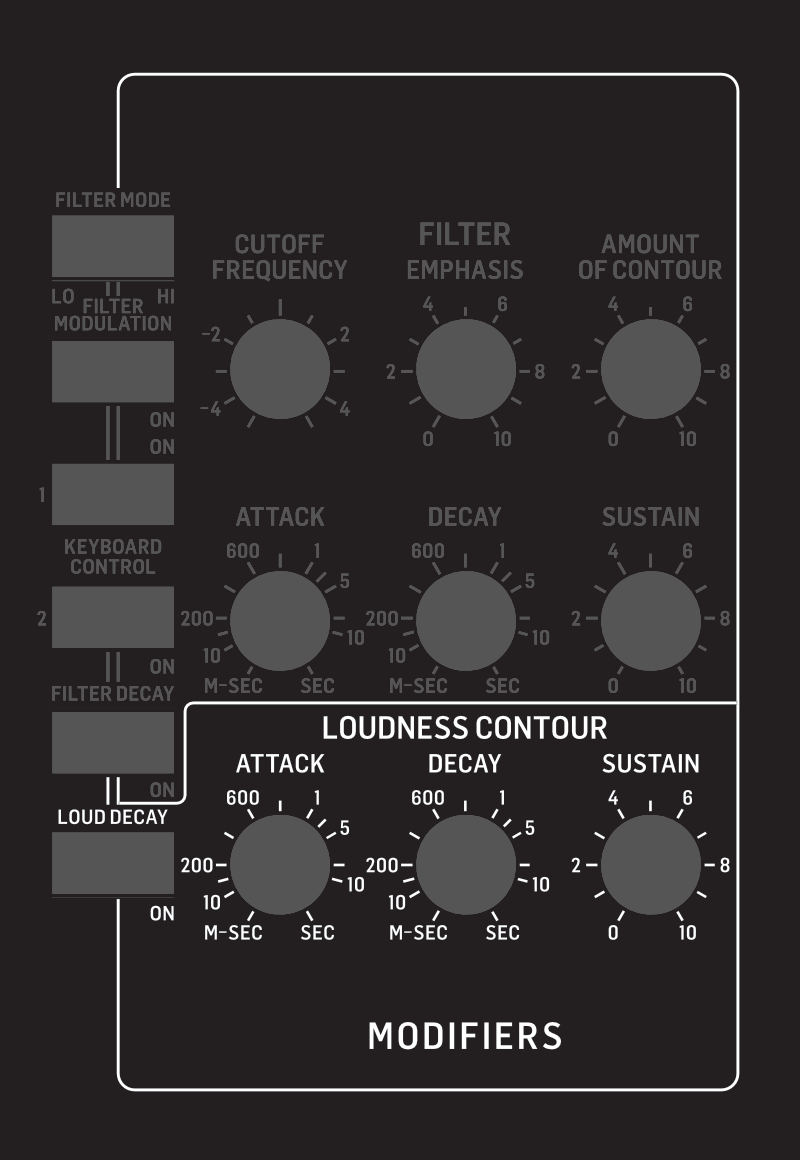
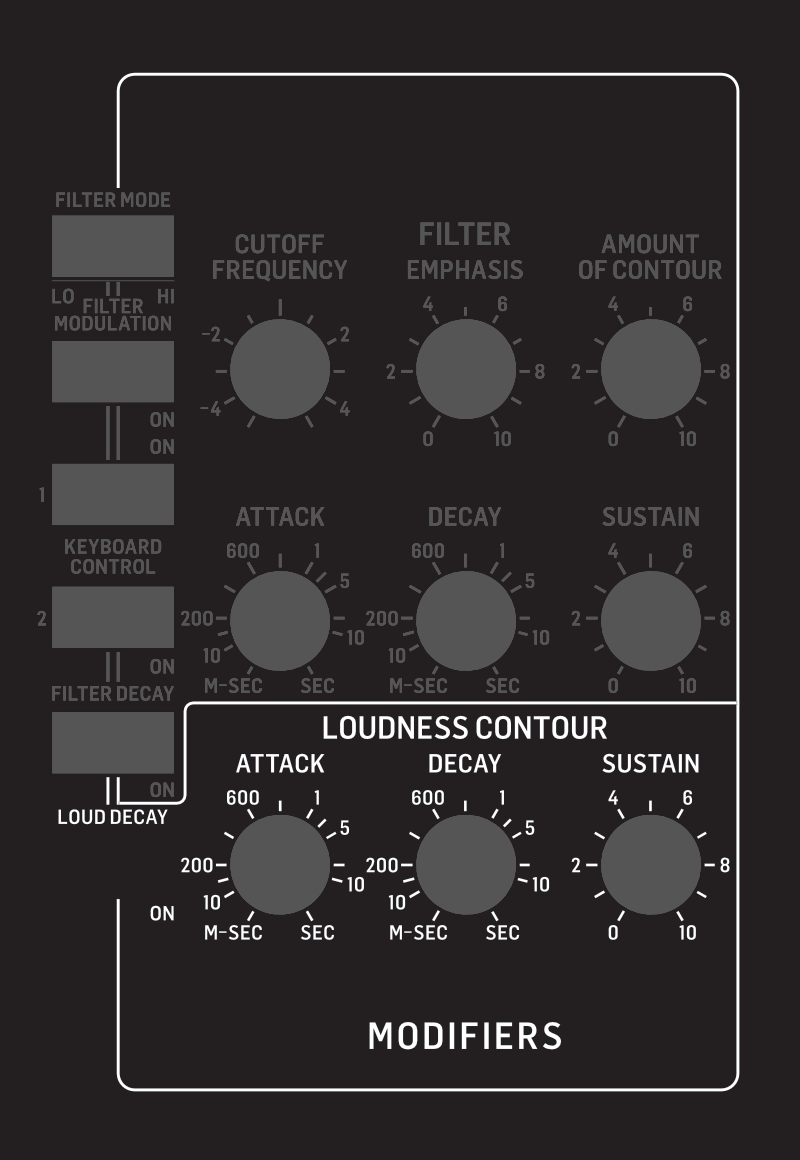
v0.9.61 — Kiosk: switch glow and opacity, all switches working correctly

Changed region(s): [[0.0625, 0.7138, 0.2188, 0.7759]]

diff --git a/js/kiosk.js b/js/kiosk.js
@@ -156,6 +156,32 @@ function drawKiosk(){
   lastDrawnAttackAngle = currentAttackAngle;
   lastDrawnDecayAngle  = currentDecayAngle;
 
+  // Switch background rectangles — drawn before darts so darts appear on top
+  const loudDecayOn = !!($('loudDecay') && $('loudDecay').checked);
+  const hpModeOn    = !!($('hpMode')    && $('hpMode').checked);
+  const switchRects = [];
+  if (!filterOn) switchRects.push({ y: 864, color: '#ffffff', param: 'loud-decay'   });
+  if (filterOn)  switchRects.push({ y: 744, color: '#ffffff', param: 'filter-decay' });
+  if (filterOn)  switchRects.push({ y: 248, color: '#0DCAF2', param: 'hp-mode'      });
+  const switchNowGlowing = activeKioskSwitch !== null && performance.now() < activeKioskSwitchUntil;
+  console.log(`[kiosk-draw] switchNowGlowing=${switchNowGlowing} activeKioskSwitch=${activeKioskSwitch} now=${performance.now().toFixed(0)} until=${activeKioskSwitchUntil.toFixed(0)}`);
+  if (!switchNowGlowing) activeKioskSwitch = null;
+  switchRects.forEach(({ y, color, param }) => {
+    const active = switchNowGlowing && activeKioskSwitch === param;
+    ctx.globalAlpha = active ? 1.0 : inactiveOpacity;
+    if (active && glowEnabled) {
+      ctx.shadowBlur  = glowRadius;
+      ctx.shadowColor = color;
+    }
+    console.log(`[kiosk-draw] rect param=${param} active=${active} globalAlpha=${ctx.globalAlpha} shadowBlur=${ctx.shadowBlur} shadowColor=${ctx.shadowColor}`);
+    ctx.beginPath();
+    ctx.rect(53, y - 30, 122, 60);
+    ctx.fillStyle = color;
+    ctx.fill();
+    ctx.shadowBlur  = 0;
+    ctx.globalAlpha = 1.0;
+  });
+
   KIOSK_KNOBS.forEach(knob => {
     if (knob.modes.includes('filter')   && !filterOn) return;
     if (knob.modes.includes('loudness') &&  filterOn) return;
@@ -171,9 +197,7 @@ function drawKiosk(){
     drawKnobPointer(ctx, knob.x, knob.y, angleDeg);
   });
 
-  // Switch indicators
-  const loudDecayOn = !!($('loudDecay') && $('loudDecay').checked);
-  const hpModeOn    = !!($('hpMode')    && $('hpMode').checked);
+  // Switch indicators (dart arrows)
   if (filterOn)  drawSwitch(ctx, 114, 248, hpModeOn,    'white');  // Filter Mode Lo/Hi
   if (filterOn)  drawSwitch(ctx, 114, 744, loudDecayOn, 'black');  // Filter Decay
   if (!filterOn) drawSwitch(ctx, 114, 864, loudDecayOn, 'black');  // Loud Decay
@@ -191,12 +215,17 @@ let kioskGlowRaf = null;
 // expiry check inside drawKiosk() has a chance to fire and clear the glow.
 function startKioskGlowLoop() {
   if (kioskGlowRaf !== null) cancelAnimationFrame(kioskGlowRaf);
+  let tickCount = 0;
   function tick() {
     kioskGlowRaf = null;
-    if (!kioskOpen) return;
+    if (!kioskOpen) { console.log('[kiosk-glow] loop stopped: kioskOpen=false'); return; }
+    const deadline = Math.max(activeKioskGlowUntil, activeKioskSwitchUntil);
+    console.log(`[kiosk-glow] tick #${++tickCount} now=${performance.now().toFixed(0)} switchUntil=${activeKioskSwitchUntil.toFixed(0)} glowUntil=${activeKioskGlowUntil.toFixed(0)} deadline=${deadline.toFixed(0)}`);
     drawKiosk();
-    if (performance.now() < activeKioskGlowUntil + 100) {
+    if (performance.now() < deadline + 100) {
       kioskGlowRaf = requestAnimationFrame(tick);
+    } else {
+      console.log('[kiosk-glow] loop exiting');
     }
   }
   kioskGlowRaf = requestAnimationFrame(tick);
@@ -227,6 +256,16 @@ window.kioskBeginTransition = function(fromA, toA, fromD, toD, durMs) {
 window.kioskNotifyKnob = function(param, durMs) {
   activeKioskKnob = [param];
   activeKioskGlowUntil = performance.now() + durMs + 1000;
+  startKioskGlowLoop();
+};
+
+let activeKioskSwitch = null;  // 'loud-decay', 'filter-decay', 'filter-mode'
+let activeKioskSwitchUntil = 0;
+
+window.kioskNotifySwitch = function(param) {
+  activeKioskSwitch = param;
+  activeKioskSwitchUntil = performance.now() + 1000;
+  console.log(`[kiosk-switch] kioskNotifySwitch called param=${param} until=${activeKioskSwitchUntil.toFixed(0)}`);
   startKioskGlowLoop();
 };
 

diff --git a/js/ui-controls.js b/js/ui-controls.js
@@ -321,6 +321,10 @@ function initUIControls(){
   $('frequencyMode').addEventListener('change', () => { syncHpModeEnabled(); setMeterLevel(state.dotLevel); });
   $('hpMode').addEventListener('change', () => setMeterLevel(state.dotLevel));
 
+  // Kiosk switch glow — notify on manual checkbox changes
+  $('loudDecay').addEventListener('change', () => { if(window.kioskNotifySwitch) kioskNotifySwitch($('frequencyMode').checked ? 'filter-decay' : 'loud-decay'); });
+  $('hpMode').addEventListener('change', () => { if(window.kioskNotifySwitch) kioskNotifySwitch('hp-mode'); });
+
   // Linear time / zoom
   $('linearTime').addEventListener('change', syncLinearTimeScale);
   $('timelineZoom3x') && $('timelineZoom3x').addEventListener('change', () => { state.target.zoomFactor = $('timelineZoom3x').checked ? 3 : 1; transition(currentTransitionSec); });

diff --git a/js/cue-list.js b/js/cue-list.js
@@ -244,16 +244,19 @@ function executeEvent(event) {
         $('loudDecay').checked = event.value;
         $('loudDecay').dispatchEvent(new Event('change'));
         render();
+        if (window.kioskNotifySwitch) kioskNotifySwitch('loud-decay');
         break;
       case 'filter-mode':
         $('frequencyMode').checked = event.value;
         $('frequencyMode').dispatchEvent(new Event('change'));
         render();
+        if (window.kioskNotifySwitch) kioskNotifySwitch('filter-mode');
         break;
       case 'filter-decay':
         $('loudDecay').checked = event.value;
         $('loudDecay').dispatchEvent(new Event('change'));
         render();
+        if (window.kioskNotifySwitch) kioskNotifySwitch('filter-decay');
         break;
       case 'hp-mode':
         $('hpMode').checked = event.value;
